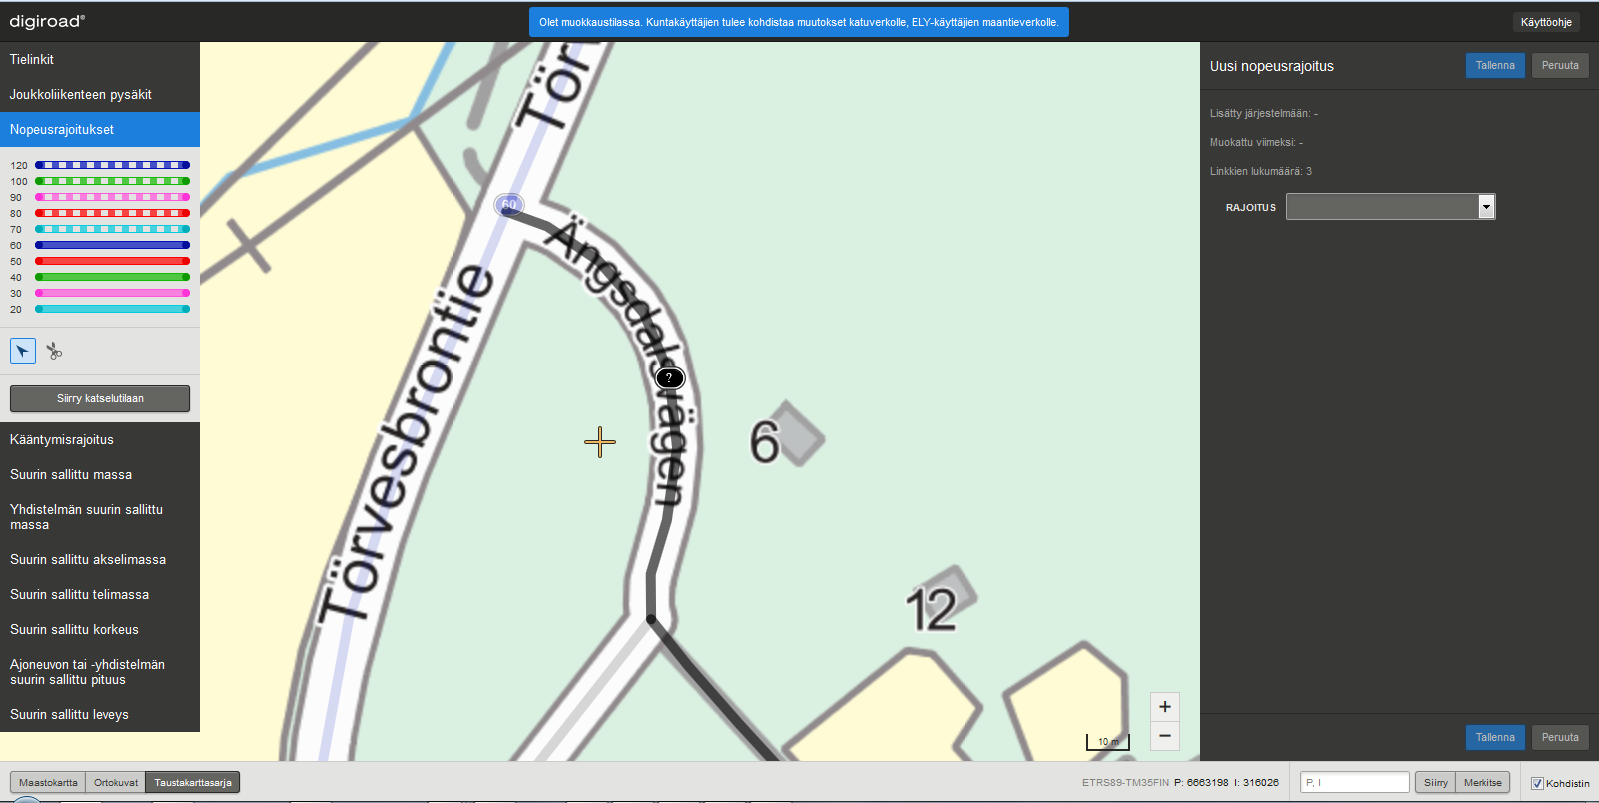
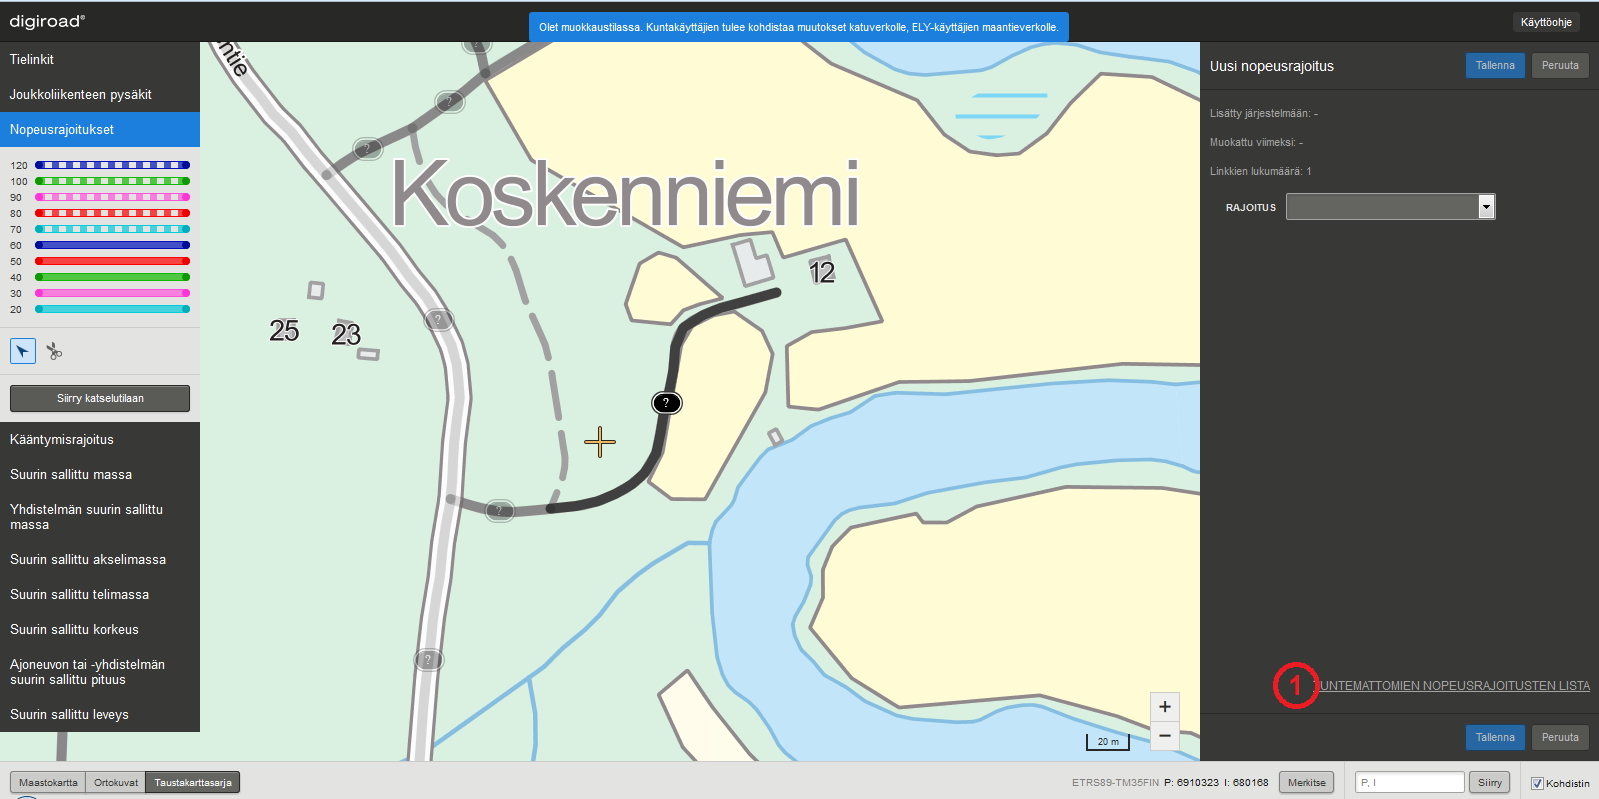
update unknown speed limits on manual

diff --git a/UI/manual/index.md b/UI/manual/index.md
@@ -414,6 +414,7 @@ _Nopeusrajoitusten visualisointi._
 ##Nopeusrajoituksien muokkaus##
 
 Muokkaustilassa nopeusrajoituksille voi antaa uusia arvoja, niit&auml; voi katkaista sek&auml; muuttaa yksisuuntaisiksi. Nopeusrajoituksien arvoja voi muokata kolmella tavalla:
+
 1. Koko nopeusrajoitusketjulle.
 1. Yksitt&auml;isen linkin mittaiselle osuudelle.
 1. Monivalinnan avulla kokonaiselle alueelle.
@@ -486,6 +487,12 @@ Tuntemattomalle nopeusrajoitukselle voi antaa arvon alasvetovalikosta ja niit&au
 ![Tuntematon nopeusrajoitus.](k48.jpg)
 
 _Tuntematon nopeusrajoitus._
+
+Tuntemattomista nopeusrajoituksista on lista, johon p&auml;&auml;see nopeusrajoitusten ominaisuustieton&auml;kym&auml;st&auml; (1). Nopeusrajoitukset on jaoteltu listalle kunnan sek&auml; kunnan sis&auml;ll&auml; hallinnollisen luokan (kunta, valtio, yksityinen) mukaan. Nopeusrajoituksesta on listassa linkki, josta p&auml;&auml;see suoraan nopeusrajoituksen kohdalle sovelluksessa ja sille voi asettaa arvon. Lista sulkeutuu Sulje lista -painikkeesta.
+
+![Tuntematon nopeusrajoitus.](k49.JPG)
+
+_Tuntemattomien nopeusrajoitusten lista._
 
 6. K&auml;&auml;ntymisrajoitukset
 ----------------------------------
